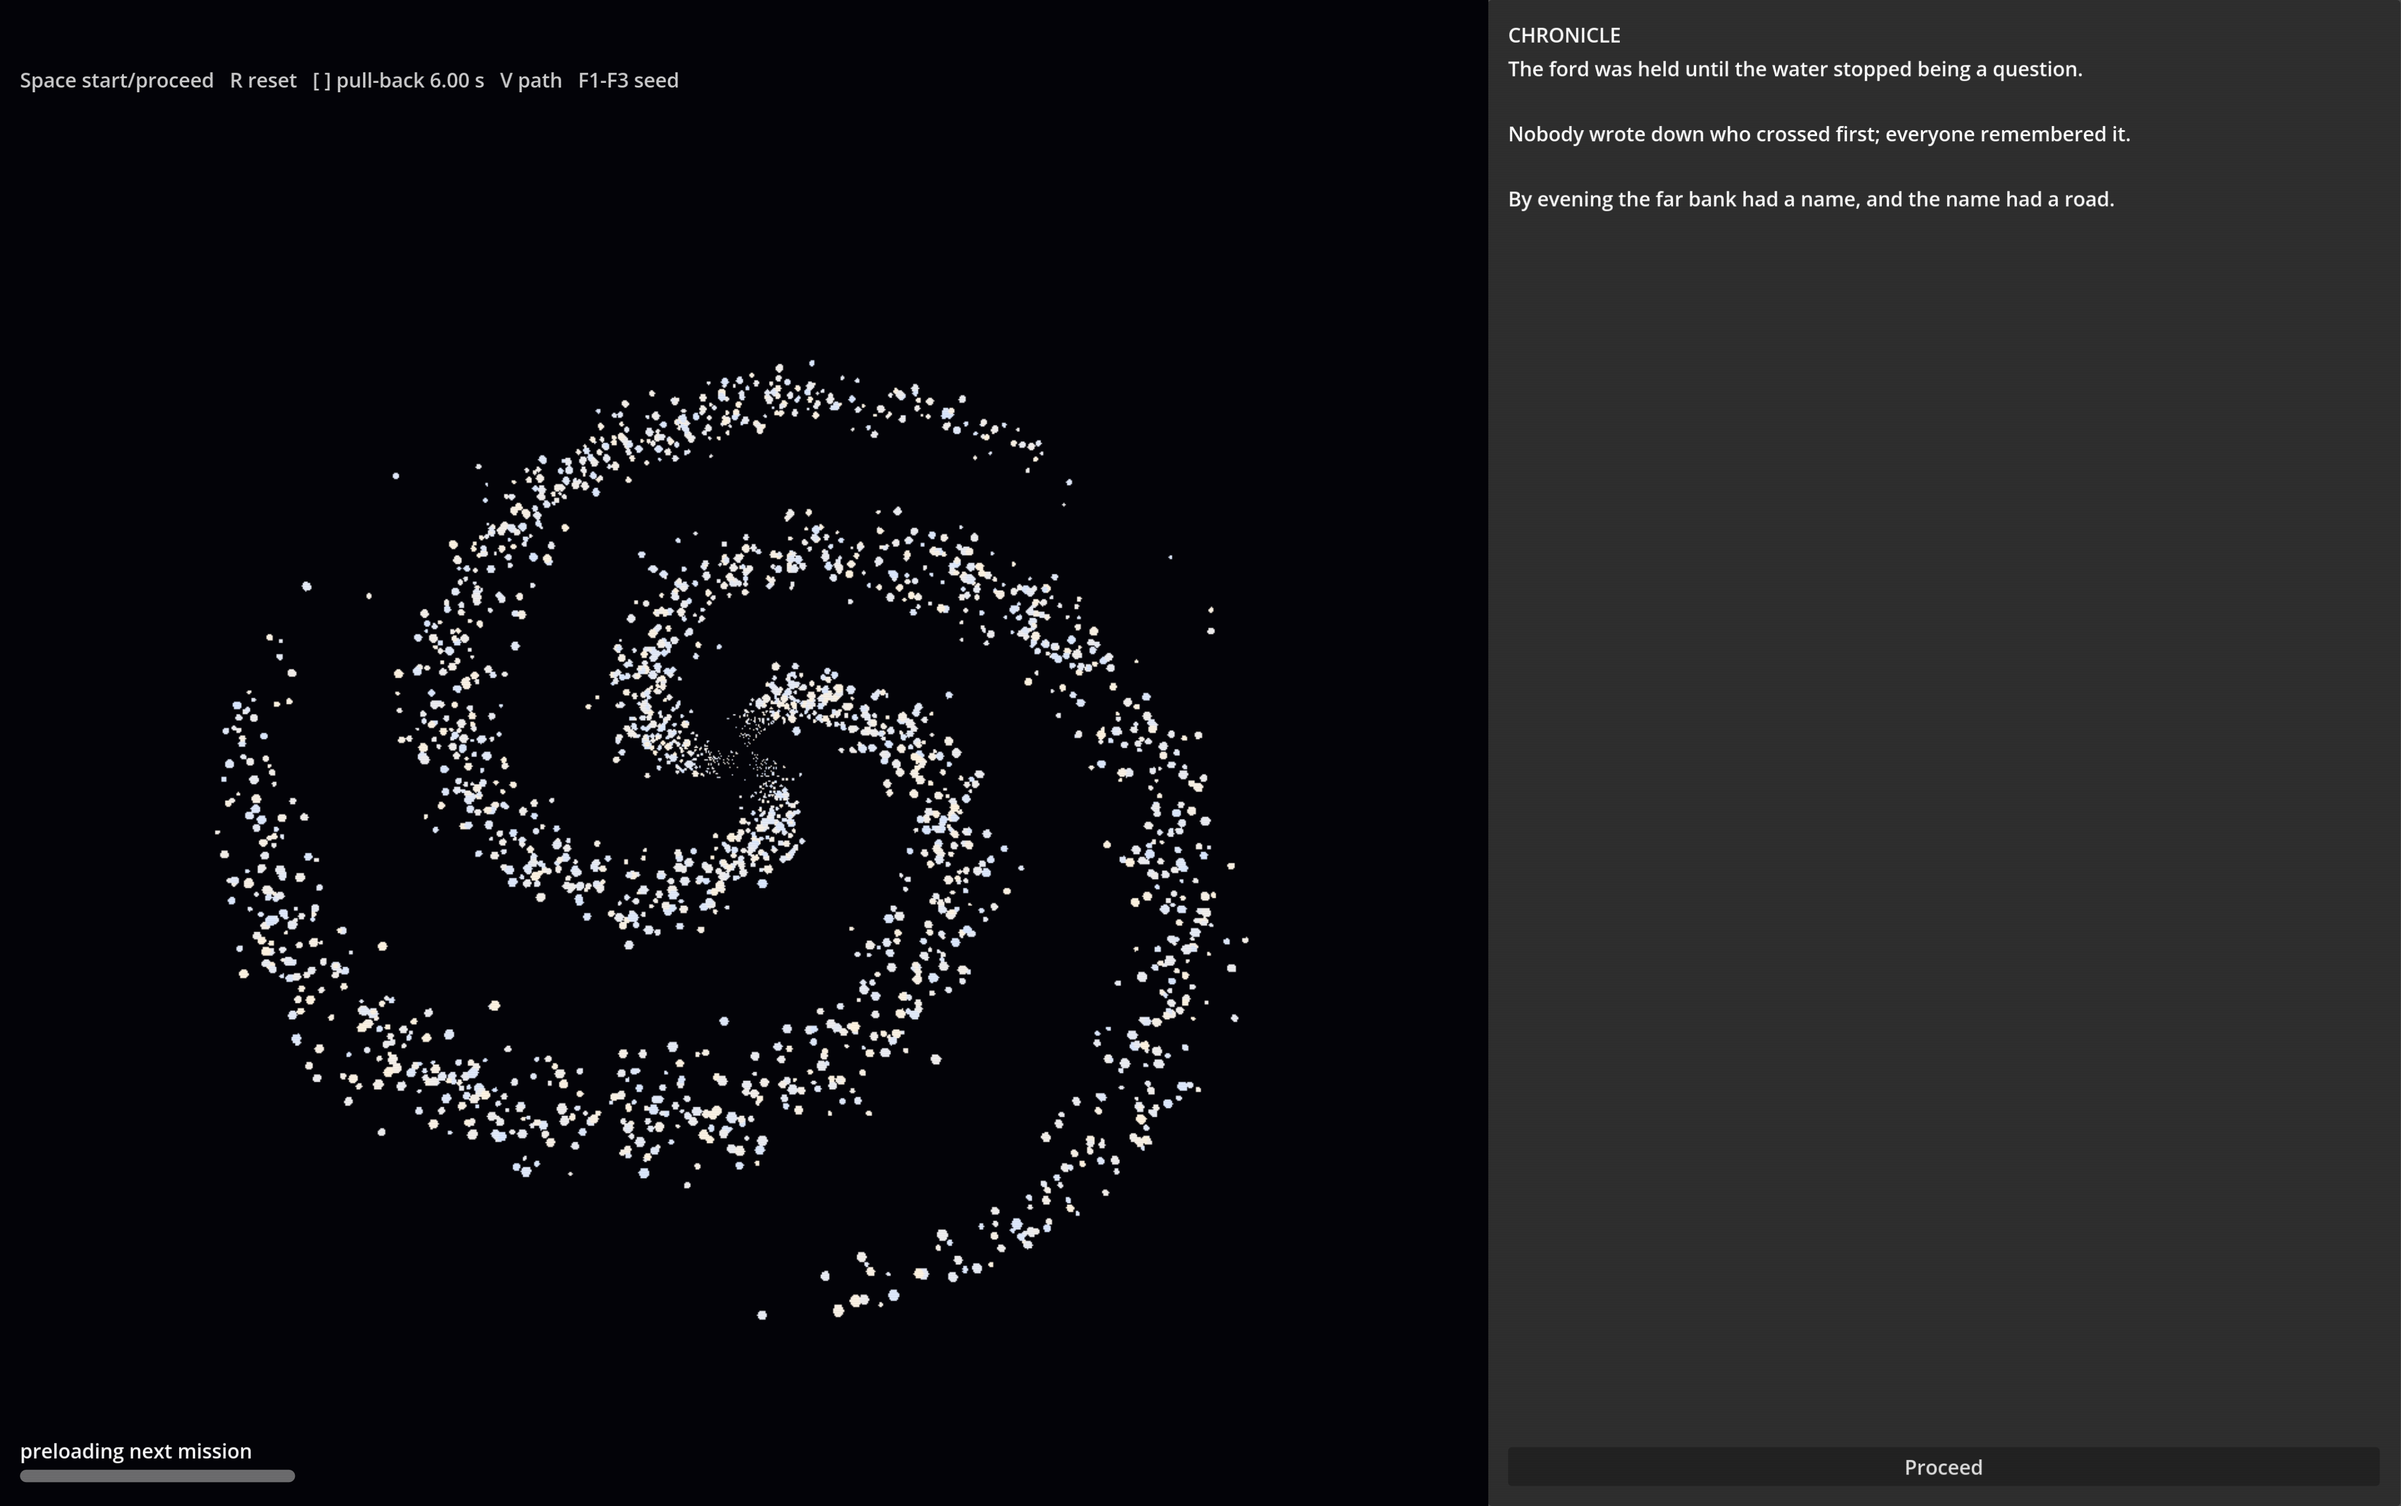
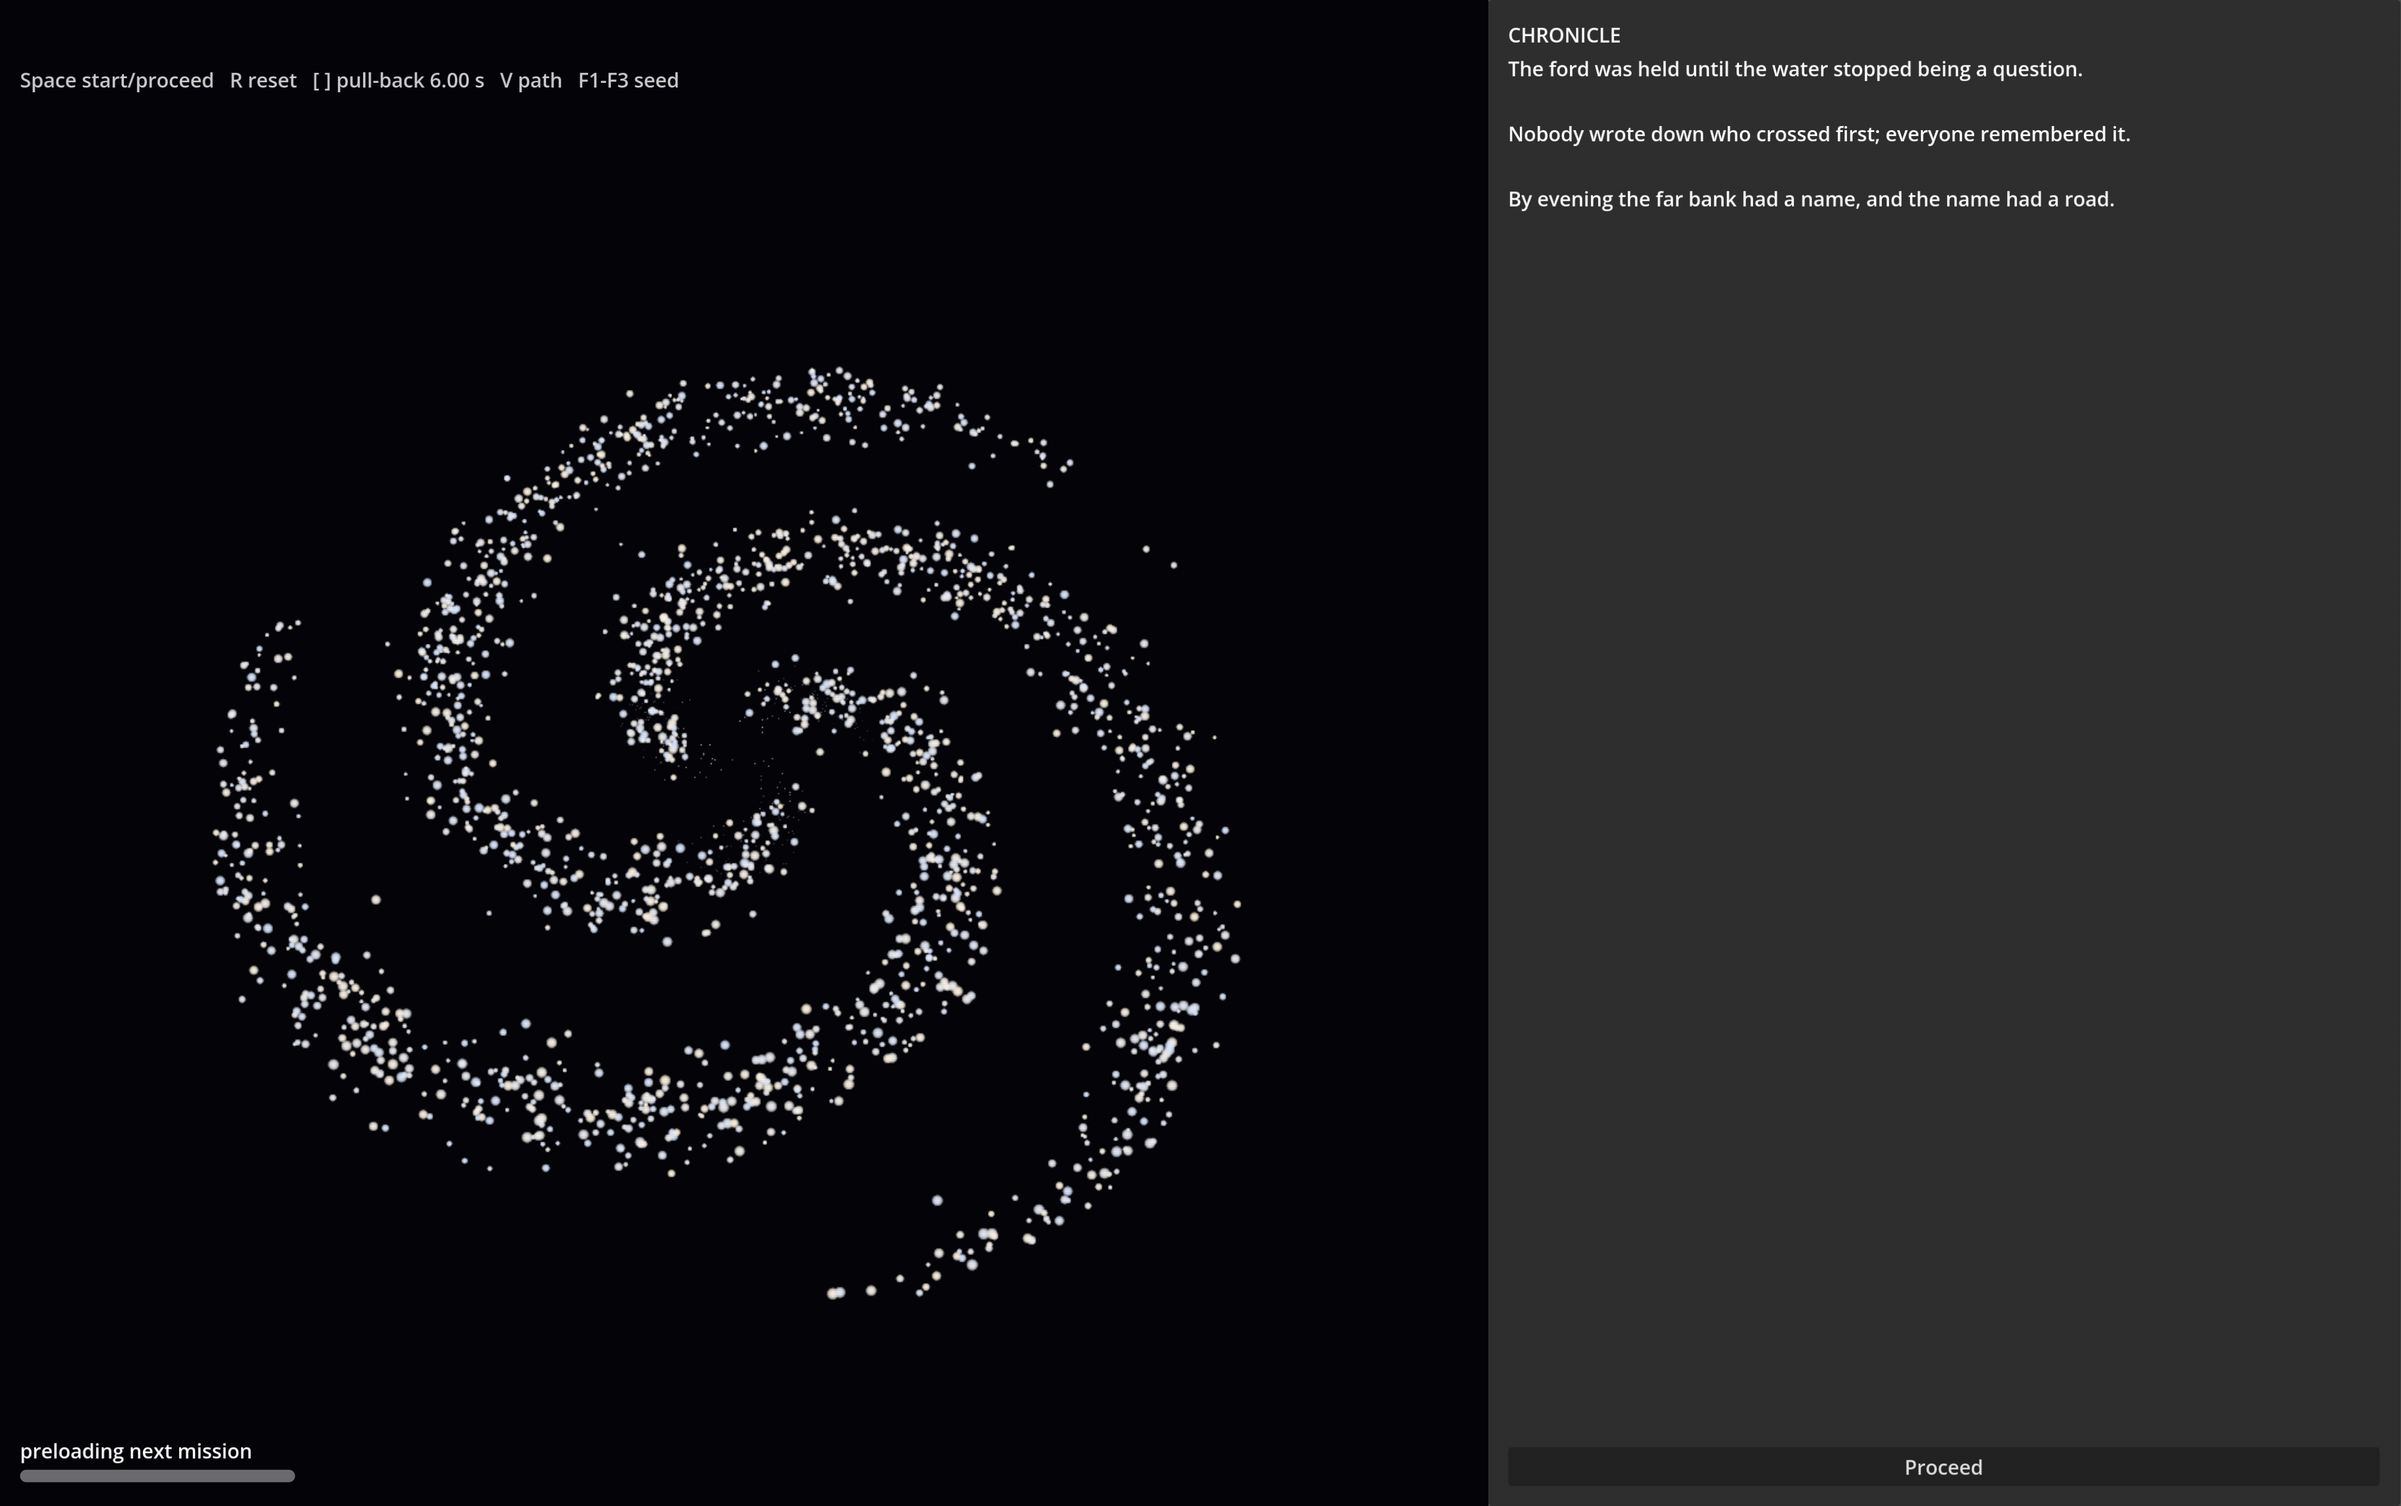
Transition mockup pass 1c shots: the star-field fix replaces the 1b blob shot in Westley's folder (S-108, e4d8e6bd)

Changed region(s): [[0.0934, 0.2481, 0.5292, 0.8682]]

diff --git a/docs/northstar/story_reviews/westley/README.md b/docs/northstar/story_reviews/westley/README.md
@@ -8,8 +8,8 @@ Name form: `<lane>-<story>-<what it shows>.png`. One row per file.
 
 | File here | Story | Lane | Queue row (run id) | Original | What to judge |
 |---|---|---|---|---|---|
-| `P-S108-galaxy-moment-after-pullback.png` | S-108 | prototype (transition mockup, pass 1b) | `../P.md` row 1 (branch `push/proto-transition` at 5537d3cb) | `../shots/proto-transition-1b/03_galaxy.png` | Scale: the battlefield's point of light is now about 13x smaller than pass 1 (below one system dot) at the galaxy moment; the panel at 38 percent; your 2026-10-15 note "10-20x smaller" |
-| `P-S108-mid-pullback-star-blobs.png` | S-108 | prototype (transition mockup, pass 1b) | `../P.md` row 1 | `../shots/proto-transition-1b/02_pullback_mid.png` | The mid pull-back: the inner-halo stars read as large hexagonal blobs, not a fine star field (the Doer flagged it); approve the path, reject the blobs, or both |
+| `P-S108-galaxy-moment-after-pullback.png` | S-108 | prototype (transition mockup, pass 1b) | `../P.md` row 1 (branch `push/proto-transition` at 5537d3cb) | `../shots/proto-transition-1c/03_galaxy.png` (1c, e4d8e6bd) | Scale: the battlefield's point of light is now about 13x smaller than pass 1 (below one system dot) at the galaxy moment; the panel at 38 percent; your 2026-10-15 note "10-20x smaller" |
+| `P-S108-mid-pullback-star-blobs.png` | S-108 | prototype (transition mockup, pass 1b) | `../P.md` row 1 | `../shots/proto-transition-1c/02_pullback_mid.png` (1c, e4d8e6bd) | The mid pull-back after the pass 1c star fix (4,000 round dim stars, inner half at 0.4 percent of distance): does the field read as stars, and does the pull-back read as scale |
 | `P-S191-terrain-obeys-seed1-no-routes.png` | S-191, S-189 (R-189-07) | prototype (terrain obeys the layout, pass 1) | `../P.md` row 2 (branch `push/proto-terrain-obeys` at 804f666b) | `../shots/proto-terrain-obeys-1/obey_16000_1.png` | The finding: pads, a choke of the asked width (466 asked, 410 measured) and a vantage are produced, but the ground has 2 small routes and 0 big routes to every point against a roll of 4: the engine must carve routes, not only check them. Judge the look of the pad, the choke bar and the wall |
 | `P-S191-terrain-obeys-seed3-pass.png` | S-191, S-189 | prototype, same pass | `../P.md` row 2 | `../shots/proto-terrain-obeys-1/obey_16000_3.png` | The one PASS (4 small, 1 big to every point, choke 264/190); whether it reads as a real choke and real routes |
 | `A-S103-start-view-ground-era.png` | S-103 (ground era) | A battle screen | `../A.md` row S-103 ground (run 20261013-1625-c79d141) | `../shots/20261013-1625-c79d141/S-103_start_view_ground.png` | Do the four own groups fit the 3D ground opening frame (reviewer: unclear; the bottom-right sight disc runs off the bottom edge; the 3D rig fit is FU-A18-3d, the Home-key test is red here); the 2D space row of the same run is already approved |

diff --git a/docs/northstar/story_reviews/P.md b/docs/northstar/story_reviews/P.md
@@ -2,5 +2,5 @@
 
 | # | Story | Mockup | Branch, sha | Shots | Reviewer | Westley |
 |---|---|---|---|---|---|---|
-| 1 | S-108 | transition mockup pass 1b (`scenes/mockups/transition/`, spec `plans/2026-10-15-transition-mockup-spec.md`) | `push/proto-transition` 5537d3cb; tests 27 pass 0 fail | `shots/proto-transition-1b/01..05` | none (prototype, judged by eye) | pass 1 seen 2026-10-15: "looks good, but the scale needs to be even lower, battlefield needs to be 10-20x smaller"; pass 1b pending |
+| 1 | S-108 | transition mockup pass 1b (`scenes/mockups/transition/`, spec `plans/2026-10-15-transition-mockup-spec.md`) | `push/proto-transition` e4d8e6bd (pass 1c, the star field; 1b was 5537d3cb); tests 27 pass 0 fail | `shots/proto-transition-1b/01..05` | none (prototype, judged by eye) | pass 1 seen 2026-10-15: "looks good, but the scale needs to be even lower, battlefield needs to be 10-20x smaller"; pass 1b pending |
 | 2 | S-191, S-189 | terrain-obeys mockup pass 1 (`scenes/mockups/landscape/obey_layer.gd`, spec `plans/2026-10-15-terrain-obeys-mockup-spec.md`) | `push/proto-terrain-obeys` 804f666b; tests 48 pass 9 fail (the seed-1 routes clause, by design: nothing loosened) | `shots/proto-terrain-obeys-1/` twelve files; measured table in the spec's "Pass 1 result" | none (prototype) | pending |
